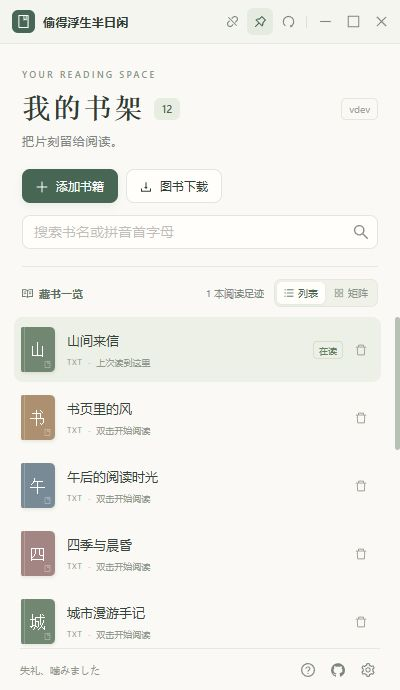
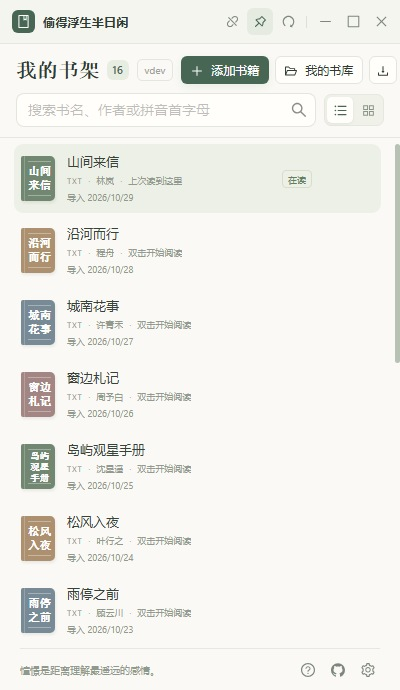
feat: update readme

diff --git a/README.en.md b/README.en.md
@@ -25,9 +25,10 @@ A lightweight, distraction-free desktop ebook reader for Windows, macOS and Linu
 
 | Feature | What you can do |
 | --- | --- |
-| Local library | Add books or drop files into the window, switch between List and Grid, search titles or pinyin initials, and return to recent books |
+| Local bookshelf | Add books or drop files into the window, switch between List and Grid, and search by title, author or pinyin. Recently opened books appear first |
+| Book details and originals | Extract metadata and covers from EPUB, MOBI and AZW files, edit titles, authors, descriptions and covers, and re-import original files from My library |
 | Text layout | Choose Compact, Standard, Comfort or Large presets, or adjust text size and line height individually |
-| Reading colors | Choose Paper, Warm, Green or Night, or customize background and text colors |
+| Reading appearance | Choose Paper, Warm, Green or Night, customize colors, and add a ginkgo, willow or bamboo corner decoration |
 | Flexible window | Keep the reader on top, use transparency, hide the title bar, hide content when the pointer leaves, or read in a 1–4 line mini window |
 | Quick hiding | Minimize or restore the window with `Ctrl / ⌘ + Space` |
 | Chapter navigation | Detect chapters, search contents, move between chapters, or split text by paragraph count or a custom regular expression |
@@ -54,15 +55,17 @@ Visit **[GitHub Releases](https://github.com/lbk-ones/wd-reader/releases)** and 
 
 In filenames, `amd64` means x64 / Intel; `arm64` means Windows ARM or Apple Silicon.
 
+Release builds check GitHub Releases on startup by default. Open **App settings** from the bookshelf to check manually or turn off startup checks. When an update is available, open its release page to download the package.
+
 Windows requires the WebView2 Runtime. Linux uses GTK4 / WebKitGTK 6, and AppImage also needs the corresponding system runtime dependencies. macOS builds target version 12.0 or later; the current packaging tasks use ad-hoc signing without Developer ID notarization.
 
 ## Screenshots
 
-Some screenshots show earlier layouts and Chinese interface text. The current home screen uses a compact toolbar, and the grid fits three columns in the default 400px window, adapting to narrower windows.
+The screenshots show the current Simplified Chinese interface with sample books.
 
 ### Default window size
 
-These screenshots use the default **400 × 690** window. The library adapts to the available width, text wraps to fit, and preferences scroll within their panel.
+The default window is **400 × 690**. The grid fits three columns and adapts to the window width. Reading text wraps to fit, and preferences scroll within their panel.
 
 | List library | Reading | Preferences |
 | :---: | :---: | :---: |
@@ -71,26 +74,30 @@ These screenshots use the default **400 × 690** window. The library adapts to t
 <details>
 <summary><strong>Grid library and contents in a small window</strong></summary>
 
-| Earlier grid layout | Chapter contents |
+| Three-column grid | Chapter contents |
 | :---: | :---: |
-| <img src="images/screenshots/compact-bookshelf-grid.jpg" width="280" alt="Earlier two-column grid layout in a 400×690 window" /> | <img src="images/screenshots/compact-catalog.jpg" width="280" alt="Chapter contents beside the text in a small window" /> |
+| <img src="images/screenshots/compact-bookshelf-grid.jpg" width="280" alt="Three-column grid in the default 400×690 window" /> | <img src="images/screenshots/compact-catalog.jpg" width="280" alt="Chapter contents beside the text in a small window" /> |
 
 </details>
 
 ### Library and reading
 
-Use List for quick scanning or Grid for browsing. Both layouts support title and pinyin-initial searches, and your layout choice is saved.
+Search by title, author or pinyin in either layout. Book cards show the author, import format and import date. The app remembers your last layout.
 
 <details>
-<summary><strong>List library: importing, search and everyday controls</strong></summary>
+<summary><strong>List view, book details and original files</strong></summary>
 
-![List library with import actions, search, layout switching, help and app settings](images/screenshots/bookshelf-list.jpg)
+![List view with search, import controls and book details](images/screenshots/bookshelf-list.jpg)
+
+![Book information editor with title, author, description and cover controls](images/screenshots/book-metadata.jpg)
+
+![My library with original file search, re-import actions and missing book management](images/screenshots/original-library.jpg)
 
 </details>
 
-The Warm palette pairs a centered chapter heading with a bottom bar showing the chapter title, number and overall chapter progress. Click the current title to open contents.
+The Warm palette is shown with a ginkgo corner decoration. The bottom bar shows the chapter title, number and overall progress. Open contents with `F2` or from the reading context menu.
 
-![Warm reading view with chapter heading, navigation and progress](images/screenshots/reading-warm.jpg)
+![Warm reading view with a ginkgo decoration, chapter navigation and progress](images/screenshots/reading-warm.jpg)
 
 <details>
 <summary><strong>Night palette: dark background and light text</strong></summary>
@@ -108,29 +115,29 @@ Search chapter titles, jump to a chapter and see the current position in the con
 <details>
 <summary><strong>Custom chapter detection for each book</strong></summary>
 
-If automatic detection does not work well for a book, split by paragraph count or enter a regular expression. Applying the rule prompts you to clear the book’s saved chapter position.
+When automatic detection misses a chapter, split by paragraph count, choose a regular expression preset for common chapter headings, or enter your own expression. Applying the rule prompts you to clear the book’s saved chapter history.
 
-![Custom chapter regular expression and reading preferences](images/screenshots/chapter-settings.jpg)
+![Chapter detection settings with a regular expression preset, input and Apply button](images/screenshots/chapter-settings.jpg)
 
 </details>
 
 ### Reading preferences
 
-The preferences panel groups the most-used controls:
+The preferences panel groups the most-used controls.
 
-- **Text and colors:** four text-size / line-height presets, four palettes and custom colors.
-- **Reading and window:** click to turn, progress, always on top, auto hide, transparency, title bar and mini-mode line count.
-- **Auto reading:** page intervals of 1–3600 seconds or scrolling at 5–100 pixels per second. Enabling either mode disables the other.
-- **Chapter detection:** smart detection, paragraph counts or a custom regular expression.
+- **Text and colors** include four text-size and line-height presets, four palettes, and custom colors. Corner decoration is independent of the palette and saves automatically.
+- **Reading and window** covers click to turn, progress, always on top, auto hide, transparency, the title bar and mini-mode line count.
+- **Auto reading** supports page intervals of 1–3600 seconds or scrolling at 5–100 pixels per second. Enabling either mode disables the other. Set a minimum chapter-end pause of 1–120 seconds for auto scroll.
+- **Chapter detection** offers smart detection, paragraph counts or a custom regular expression per book.
 
-![Reading preferences for typography, colors, window behavior, auto reading and chapter detection](images/screenshots/reading-preferences.jpg)
+![Reading preferences for typography, colors, corner decorations, window behavior and auto reading](images/screenshots/reading-preferences.jpg)
 
 <details>
 <summary><strong>Built-in help and keyboard shortcuts</strong></summary>
 
 Press `F1` to open help. Browse Getting started, Reading preferences and Shortcuts. The instructions are available offline.
 
-![Built-in help explaining F1–F9, Esc, Enter and the boss key](images/screenshots/keyboard-guide.jpg)
+![Built-in reading shortcuts, including PageUp and PageDown](images/screenshots/keyboard-guide.jpg)
 
 </details>
 
@@ -138,8 +145,14 @@ Press `F1` to open help. Browse Getting started, Reading preferences and Shortcu
 
 1. Click **Add books** or drop local files into the library window. You can also enter a direct file URL under **Download books**.
 2. Double-click a book, or focus it with the keyboard and press `Enter`.
-3. Click the text to turn pages, scroll with the mouse wheel, use the bottom bar to change chapters, or click the chapter title to open contents.
+3. Click the text to turn pages or scroll with the mouse wheel. Use the bottom bar to change chapters and press `F2` to open contents.
 4. Open **Reading preferences** with the gear button to adjust colors, text, window behavior and auto reading.
+
+### Manage books
+
+After importing a book, you can edit its title, author, description and cover. To edit it later, hover over or focus the book card and choose **Edit book information**.
+
+Open **My library** to search or re-import original files. Deleting a book from the bookshelf removes its reading copy and metadata and leaves the original available for re-import. Deleting the original in My library leaves the existing reading copy available. Open **Manage missing books** to restore or relink missing files, or remove stale entries.
 
 ### Supported formats
 
@@ -158,9 +171,9 @@ TXT and EPUB are recommended for everyday reading. This reader focuses on text; 
 - **Mini context menu:** right-click the text to open all actions in a separate always-on-top window. Page and chapter navigation keep mini mode; contents, preferences and other panels restore the normal window. Press `Esc` or focus another window to dismiss the menu.
 - **Transparent mode:** use a transparent background and white text over other windows. Choosing a color preset turns transparency off.
 - **Auto hide:** hide reading content when the pointer leaves the window and reveal it when the pointer returns.
-- **Hidden title bar:** right-click the text and choose Title bar to restore it, or Preferences to reopen settings.
+- **Hidden title bar** leaves a drag area along the top edge of the reading window. Right-click the text and choose **Title bar** to restore the bar.
 
-Auto page turn defaults to 30 seconds; auto scroll defaults to 20 pixels per second. Both pause in settings, contents or help, while loading books, or when content is hidden. Manual activity restarts the page-turn timer and briefly pauses scrolling.
+Auto page turn defaults to 30 seconds and auto scroll defaults to 20 pixels per second. Auto scroll pauses for at least 4 seconds by default before opening the next chapter. Both modes pause in settings, contents or help, while loading books, or when content is hidden. Manual activity restarts the page-turn timer and briefly pauses scrolling.
 
 ### Keyboard shortcuts
 
@@ -168,7 +181,7 @@ Auto page turn defaults to 30 seconds; auto scroll defaults to 20 pixels per sec
 | --- | --- |
 | `F1` | Open help |
 | `F2` | Toggle contents |
-| `F3` / `F4` | Previous / next page |
+| `F3` or `PageUp` / `F4` or `PageDown` | Previous / next page |
 | `F5` / `F6` | Previous / next chapter |
 | `F7` | Toggle auto page turn |
 | `F8` | Toggle mini mode |
@@ -177,7 +190,7 @@ Auto page turn defaults to 30 seconds; auto scroll defaults to 20 pixels per sec
 | `Enter` | Open the focused book in the library |
 | `Ctrl + Space` / `⌘ + Space` | Boss key: minimize / restore the window |
 
-`F2`–`F9` mainly apply while reading and pause when editing inputs or using other panels. The boss key requires successful system shortcut registration and may conflict with other apps. Linux support depends on the desktop environment.
+`F2`–`F9`, `PageUp` and `PageDown` mainly apply while reading and pause when editing inputs or using other panels. The boss key requires successful system shortcut registration and may conflict with other apps. Linux support depends on the desktop environment.
 
 ### Where are books and preferences stored?
 
@@ -185,9 +198,10 @@ Auto page turn defaults to 30 seconds; auto scroll defaults to 20 pixels per sec
 | --- | --- |
 | Windows books | `books/` in the working directory at startup; launching from the repository root uses its `books/` folder |
 | macOS / Linux books | `~/books/` |
+| Book folder structure | `pure/` holds imported originals, `parse/` holds TXT reading copies, and `meta-data/` holds book details, covers and metadata backups |
 | Reading positions and preferences | Local WebView localStorage, using the `Wd-` prefix |
 
-**Clear reading history** removes recent books, saved chapters and reading positions while preserving typography, colors, language and library layout. **Clear all cache** also removes preferences. When moving to another device, book files and WebView reading data must be handled separately.
+**Clear reading history** removes the WebView’s recent book entries, saved chapters and reading positions while preserving typography, colors, language and library layout. **Clear all cache** also removes preferences. Back up the book folder and WebView data separately when moving to another device.
 
 ## Development and builds
 

diff --git a/README.md b/README.md
@@ -25,9 +25,10 @@
 
 | 功能 | 你可以做什么 |
 | --- | --- |
-| 本地书架 | 添加或拖入书籍，切换列表 / 矩阵布局，按书名或拼音首字母查找，快速回到最近阅读的书 |
+| 本地书架 | 添加或拖入书籍，切换列表和矩阵布局，按书名、作者或拼音查找，优先显示最近打开的书 |
+| 书籍信息与原文件 | 从 EPUB、MOBI 和 AZW 系列提取书籍信息与封面，手动编辑书名、作者、简介和封面，在「我的书库」管理和重新导入原文件 |
 | 舒适排版 | 在紧凑、标准、舒适、大字四档预设间切换，也可单独调整字号与行高 |
-| 阅读配色 | 一键使用纸白、暖纸、浅绿、夜读，或自定义背景色和字体颜色 |
+| 阅读外观 | 切换纸白、暖纸、浅绿、夜读，或自定义文字和背景色。可搭配银杏、柳叶或竹叶角饰 |
 | 灵活窗口 | 窗口置顶、透明背景、隐藏标题栏、鼠标移出隐藏内容，以及 1–4 行迷你阅读 |
 | 快速隐藏 | 使用 `Ctrl / ⌘ + Space` 最小化窗口，再按恢复 |
 | 章节导航 | 自动识别目录、搜索章节、切换上下章；支持按段落分章和自定义正则 |
@@ -54,15 +55,15 @@ Open **App settings → Language** from the library, or use the language selecto
 
 文件名中的 `amd64` 对应 x64 / Intel，`arm64` 对应 Windows ARM 或 Apple Silicon。
 
+正式版默认在启动时检查 GitHub Releases。可在书架右下角打开 **应用设置**，手动检查更新或关闭启动检查。发现新版本后可打开发布页下载安装包。
+
 Windows 需要 WebView2 Runtime；Linux 使用 GTK4 / WebKitGTK 6，AppImage 还需要系统具备相应运行依赖。macOS 构建目标为 12.0 及以上，当前打包任务使用 ad-hoc 签名，未配置 Developer ID 公证。
 
 ## 界面预览
 
-部分截图展示早期布局；当前版本的首页顶部为紧凑工具栏，默认 400px 窗口的矩阵书架显示三列，窄窗口会自动调整。
-
 ### 默认窗口大小
 
-下面是按应用初始尺寸 **400 × 690** 重新截取的小窗口界面。书架会调整为紧凑布局，正文按窄窗口重新换行，设置内容可在面板内滚动查看。点击图片可查看原尺寸。
+默认窗口为 **400 × 690**。矩阵书架默认显示三列，随窗口宽度调整。正文会自动换行，阅读偏好可在面板内滚动。
 
 | 列表书架 | 正文阅读 | 阅读偏好 |
 | :---: | :---: | :---: |
@@ -71,26 +72,30 @@ Windows 需要 WebView2 Runtime；Linux 使用 GTK4 / WebKitGTK 6，AppImage 还
 <details>
 <summary><strong>小窗口下的矩阵书架与章节目录</strong></summary>
 
-| 两列矩阵书架 | 章节目录 |
+| 三列矩阵书架 | 章节目录 |
 | :---: | :---: |
-| <img src="images/screenshots/compact-bookshelf-grid.jpg" width="280" alt="400×690 默认窗口下的两列矩阵书架" /> | <img src="images/screenshots/compact-catalog.jpg" width="280" alt="400×690 默认窗口下的侧边章节目录" /> |
+| <img src="images/screenshots/compact-bookshelf-grid.jpg" width="280" alt="400×690 默认窗口下的三列矩阵书架" /> | <img src="images/screenshots/compact-catalog.jpg" width="280" alt="400×690 默认窗口下的侧边章节目录" /> |
 
 </details>
 
 ### 书架与阅读
 
-列表适合快速查找，矩阵适合浏览。搜索支持书名和拼音首字母，两种布局都会保存选择。
+书架支持按书名、作者或拼音搜索，并会记住上次使用的布局。书籍卡片显示作者、导入格式和导入日期。
 
 <details>
-<summary><strong>列表书架：导入入口、搜索、书籍列表与常用操作</strong></summary>
+<summary><strong>列表书架、书籍信息与原文件</strong></summary>
 
-![列表书架：添加书籍、图书下载、搜索框、列表与矩阵切换、帮助与应用设置](images/screenshots/bookshelf-list.jpg)
+![列表书架，包含搜索框、导入入口和书籍信息](images/screenshots/bookshelf-list.jpg)
+
+![书籍信息编辑窗口，包含书名、作者、简介和封面选项](images/screenshots/book-metadata.jpg)
+
+![我的书库，包含原文件搜索、重新导入和管理缺失书籍](images/screenshots/original-library.jpg)
 
 </details>
 
-暖纸配色搭配居中的章节标题，底栏显示当前章名、章节序号和全书章节进度。点击章名可直接打开目录。
+暖纸配色可搭配银杏角饰。底栏显示当前章名、章节序号和全书章节进度。按 `F2` 或在正文右键菜单中打开目录。
 
-![暖纸阅读：章节标题、正文排版、上下章导航和底部进度](images/screenshots/reading-warm.jpg)
+![暖纸配色和银杏角饰下的阅读界面，包含章节导航与进度](images/screenshots/reading-warm.jpg)
 
 <details>
 <summary><strong>夜读配色：深色背景与浅色正文</strong></summary>
@@ -108,29 +113,29 @@ Windows 需要 WebView2 Runtime；Linux 使用 GTK4 / WebKitGTK 6，AppImage 还
 <details>
 <summary><strong>自定义断章：按书籍选择识别规则</strong></summary>
 
-章节识别不符合预期时，可切换到按段落分章，或输入自己的正则表达式。点击“应用”前会提示清空该书的章节阅读历史。
+章节识别不符合预期时，可切换到按段落分章，也可选用常见章节标题的正则预设或输入自己的表达式。应用前会提示清空该书的章节阅读历史。
 
-![断章设置：自定义正则输入框与应用入口，旁侧展示完整阅读偏好](images/screenshots/chapter-settings.jpg)
+![断章设置中的正则预设、表达式与应用按钮](images/screenshots/chapter-settings.jpg)
 
 </details>
 
 ### 阅读偏好
 
-从文字、窗口到自动阅读，常用选项集中在同一个面板：
+常用选项集中在同一个面板。
 
-- **文字与配色**：四档字号 / 行高预设、四组配色、自定义颜色。
-- **阅读与窗口**：点击翻页、进度显示、置顶、移出隐藏、透明模式、标题栏和迷你行数。
-- **自动阅读**：翻页间隔 1–3600 秒；滚动速度 5–100 像素 / 秒，两种模式互斥。
-- **断章方式**：智能识别、按段落或自定义正则。
+- **文字与配色**支持四档字号和行高预设、四组配色及自定义颜色。角饰与配色独立设置，选择会自动保存。
+- **阅读与窗口**包含点击翻页、进度显示、置顶、移出隐藏、透明模式、标题栏和迷你行数。
+- **自动阅读**支持定时翻页和连续滚动，两种模式互斥。翻页间隔为 1–3600 秒，滚动速度为 5–100 像素/秒，章末最低停留时间可设为 1–120 秒。
+- **断章方式**可按书籍设置为智能识别、按段落或自定义正则。
 
-![完整阅读偏好：排版预设、配色预设、窗口开关、自动翻页、自动滚动和断章方式](images/screenshots/reading-preferences.jpg)
+![阅读偏好中的排版、配色、角饰、窗口和自动阅读设置](images/screenshots/reading-preferences.jpg)
 
 <details>
 <summary><strong>内置帮助：随时查看快捷键与操作说明</strong></summary>
 
 按 `F1` 打开使用说明，按主题查看开始阅读、阅读偏好与快捷操作；内置说明可离线使用。
 
-![内置使用说明：F1 至 F9、Esc、Enter 和老板键的操作说明](images/screenshots/keyboard-guide.jpg)
+![内置使用说明中的阅读快捷键，包含 PageUp 和 PageDown](images/screenshots/keyboard-guide.jpg)
 
 </details>
 
@@ -138,8 +143,14 @@ Windows 需要 WebView2 Runtime；Linux 使用 GTK4 / WebKitGTK 6，AppImage 还
 
 1. 点击书架上的 **添加书籍**，或把本地文件拖入窗口；也可通过 **图书下载** 输入文件链接。
 2. 双击书籍开始阅读，或用键盘选中书籍后按 `Enter`。
-3. 点击正文翻页、滚动鼠标阅读，使用底栏切换章节，点击当前章名打开目录。
+3. 点击正文翻页或滚动鼠标阅读。使用底栏切换章节，按 `F2` 打开目录。
 4. 点击齿轮打开 **阅读偏好**，选择配色、字号，以及适合自己的窗口与自动阅读方式。
+
+### 管理书籍
+
+导入后可以编辑书名、作者、简介和封面。之后可在书籍卡片上悬停或用键盘聚焦，打开 **编辑书籍信息**。
+
+**我的书库**保留导入时的原文件，可搜索并重新导入。书架的删除操作会移除阅读副本和对应元数据，原文件仍可从书库重新导入。从书库删除原文件时，已有阅读副本仍可打开。可在 **管理缺失书籍** 中恢复、关联或清理缺失记录。
 
 ### 格式支持
 
@@ -158,9 +169,9 @@ Windows 需要 WebView2 Runtime；Linux 使用 GTK4 / WebKitGTK 6，AppImage 还
 - **迷你右键菜单**：在正文中右键，使用独立置顶的操作窗口查看全部菜单项；翻页、切章保持迷你模式，打开目录或设置等面板时恢复正常窗口。按 `Esc` 或点击其他窗口收起菜单。
 - **透明模式**：使用透明背景并切换为白色文字，适合叠放在其他窗口上；选择配色预设会关闭透明模式。
 - **移出隐藏**：开启“窗口隐藏”后，鼠标移出时隐藏阅读内容，移回后恢复。
-- **标题栏隐藏后**：右键点击正文，通过“标题开关”恢复，或通过右键菜单重新打开设置。
+- **标题栏隐藏后**可按住阅读区顶部的拖动区域移动窗口。右键点击正文，通过「标题开关」恢复标题栏。
 
-自动翻页默认间隔 30 秒，自动滚动默认速度 20 像素 / 秒。打开设置、目录或帮助，加载书籍或隐藏内容时会暂停；手动操作后，自动翻页重新计时，自动滚动暂缓后继续。
+自动翻页默认间隔 30 秒，自动滚动默认速度 20 像素/秒。自动滚动到章末时默认至少停留 4 秒再切章。打开设置、目录或帮助，加载书籍或隐藏内容时会暂停。手动操作后，自动翻页重新计时，自动滚动暂缓后继续。
 
 ### 快捷键
 
@@ -168,7 +179,7 @@ Windows 需要 WebView2 Runtime；Linux 使用 GTK4 / WebKitGTK 6，AppImage 还
 | --- | --- |
 | `F1` | 打开使用说明 |
 | `F2` | 打开 / 关闭目录 |
-| `F3` / `F4` | 上一页 / 下一页 |
+| `F3` 或 `PageUp` / `F4` 或 `PageDown` | 上一页 / 下一页 |
 | `F5` / `F6` | 上一章 / 下一章 |
 | `F7` | 开启 / 关闭自动翻页 |
 | `F8` | 进入 / 退出迷你模式 |
@@ -177,7 +188,7 @@ Windows 需要 WebView2 Runtime；Linux 使用 GTK4 / WebKitGTK 6，AppImage 还
 | `Enter` | 打开书架中选中的书 |
 | `Ctrl + Space` / `⌘ + Space` | 老板键：最小化 / 恢复窗口 |
 
-`F2`–`F9` 主要在阅读正文时生效，编辑输入框或打开其他面板时暂停。老板键需要成功注册系统快捷键，可能与其他应用冲突；Linux 的支持取决于桌面环境。
+`F2`–`F9`、`PageUp` 和 `PageDown` 主要在阅读正文时生效，编辑输入框或使用其他面板时暂停。老板键需要成功注册系统快捷键，可能与其他应用冲突。Linux 的支持取决于桌面环境。
 
 ### 书籍与记录存在哪里？
 
@@ -185,9 +196,10 @@ Windows 需要 WebView2 Runtime；Linux 使用 GTK4 / WebKitGTK 6，AppImage 还
 | --- | --- |
 | Windows 书籍 | 启动时工作目录下的 `books/`；开发时从仓库根目录启动即使用根目录的 `books/` |
 | macOS / Linux 书籍 | `~/books/` |
+| 书籍目录结构 | `pure/` 保存导入原件，`parse/` 保存 TXT 阅读副本，`meta-data/` 保存书籍信息、封面和元数据备份 |
 | 阅读位置与偏好 | 保存在本机 WebView 的 localStorage 中，使用 `Wd-` 前缀 |
 
-“清除阅读记录”会移除最近阅读、章节记录与阅读位置，保留排版、配色和书架布局；“清空所有缓存”还会清除偏好。迁移到另一台设备时，书籍目录与 WebView 中的记录需要分别考虑。
+「清除阅读记录」会移除 WebView 中的最近阅读、章节记录与阅读位置，保留排版、配色和书架布局。「清空所有缓存」还会清除偏好。迁移到另一台设备时，书籍目录和 WebView 数据需要分别备份。
 
 ## 开发与构建
 

diff --git a/images/screenshots/README.md b/images/screenshots/README.md
@@ -1,23 +1,24 @@
 # README 界面截图
 
-- 采集日期：2026-10-17。
-- 来源：当前源码的生产前端与 Wails `server,production` 本地预览构建，使用真实 Go 服务读取示例书籍。
-- 画面尺寸：大窗口截图为 1280 × 720；`compact-` 前缀截图为应用初始尺寸 400 × 690，按该视口重新渲染后采集，并非大图缩小。均为 JPEG 原始截图，未拼接或重绘界面。
-- 示例数据：为文档准备的原创书名与散文段落，不使用个人书库；截图中的 `dev` 为预览构建版本标识。
-- 范围：书架、正文、目录、阅读偏好、断章设置与内置帮助。原生透明窗口、系统快捷键和迷你窗口尺寸不作为浏览器预览的验证结果。
+- 2026-11-05 采集。中英文 README 共用这组简体中文界面截图。
+- 使用当前源码构建生产前端与 Wails `server,production` 本地预览，由 Go 服务读取独立的示例书库。`dev` 为预览构建版本标识。
+- `compact-` 前缀图片按应用初始尺寸 400 × 690 渲染，其余图片按宽窗口渲染。所有图片均直接导出为 JPEG。
+- 浏览器预览覆盖书架、正文和各设置面板。透明窗口、系统快捷键和迷你窗口尺寸依赖原生桌面运行环境。
 
 | 文件 | 展示内容 |
 | --- | --- |
 | `bookshelf-grid.jpg` | 矩阵书架、搜索和导入入口 |
 | `bookshelf-list.jpg` | 列表书架与布局切换 |
-| `reading-warm.jpg` | 暖纸配色、章节标题、正文和阅读底栏 |
+| `book-metadata.jpg` | 编辑书名、作者、简介和封面 |
+| `original-library.jpg` | 原文件搜索、重新导入与缺失书籍管理入口 |
+| `reading-warm.jpg` | 暖纸配色、银杏角饰、正文和阅读底栏 |
 | `reading-night.jpg` | 夜读配色 |
 | `chapter-catalog.jpg` | 当前章节高亮、目录与搜索 |
-| `reading-preferences.jpg` | 完整阅读偏好及自动阅读参数 |
-| `chapter-settings.jpg` | 自定义正则输入示例，未点击应用 |
-| `keyboard-guide.jpg` | 内置快捷操作说明 |
+| `reading-preferences.jpg` | 阅读外观、角饰、窗口及自动阅读选项 |
+| `chapter-settings.jpg` | 自定义正则预设与表达式示例 |
+| `keyboard-guide.jpg` | 内置快捷操作说明，包含 PageUp 和 PageDown |
 | `compact-bookshelf-list.jpg` | 初始窗口尺寸下的列表书架 |
-| `compact-bookshelf-grid.jpg` | 初始窗口尺寸下的两列矩阵书架 |
+| `compact-bookshelf-grid.jpg` | 初始窗口尺寸下的三列矩阵书架 |
 | `compact-reading.jpg` | 初始窗口尺寸下的暖纸阅读与正文换行 |
 | `compact-catalog.jpg` | 初始窗口尺寸下的侧边章节目录 |
 | `compact-preferences.jpg` | 初始窗口尺寸下可滚动的阅读偏好面板 |
